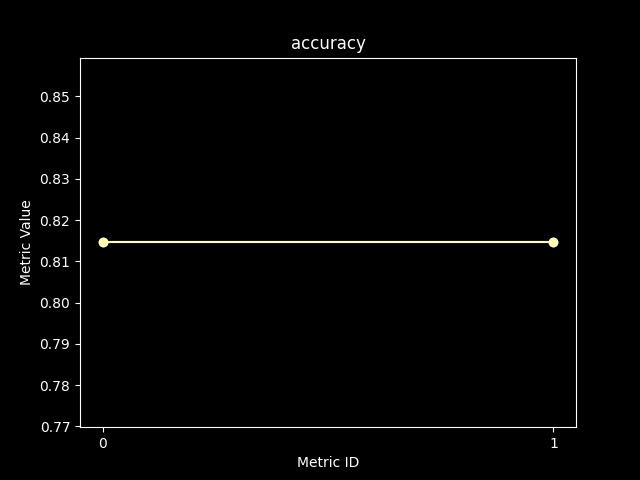
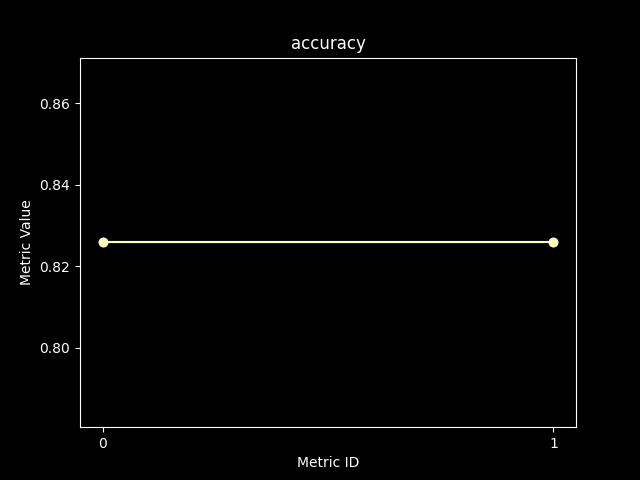
add some checks

diff --git a/mainera/src/wrappers/model_report_wrapper.py b/mainera/src/wrappers/model_report_wrapper.py
@@ -8,31 +8,41 @@ from mainera.src.wrappers.report_wrapper import ReportWrapper
 class ModelReport(ReportWrapper):
     def __init__(self, folderpath, results, history=None):
         super().__init__(folderpath, results)
+        if history and not isinstance(history, dict):
+            raise TypeError(
+                f"Expected 'history' to be a dict has the evaluation metrics of the model to plot them, got {type(history).__name__}"
+            )
         self.history = history
         self.metric_ids = list(map(str, range(len(results))))
 
     def display_history(self):
-        content = "## Model History\n"
-        training_evaluation = []
-        for key in self.history.keys():
-            if not key.startswith("val_"):
-                training_evaluation.append(key)
-        plt.figure(figsize=(15, 10))
-        for i in range(len(training_evaluation)):
-            plt.subplot(len(training_evaluation), 1, i + 1)
-            plt.plot(self.history[training_evaluation[i]], label=training_evaluation[i])
-            plt.suptitle(f"{training_evaluation[i]}")
-            val_name = f"val_{training_evaluation[i]}"
-            validation = self.history[val_name]
-            if validation:
-                plt.plot(validation, label=val_name)
-            plt.xlabel("epochs")
-            plt.legend()
-        plt.tight_layout()
-        path = os.path.join(self.folderpath, "history")
-        plt.savefig(path)
-        content += "![history ](history.png)\n"
-        return content
+        try:
+            content = "## Model History\n"
+            training_evaluation = []
+            for key in self.history.keys():
+                if not key.startswith("val_"):
+                    training_evaluation.append(key)
+            plt.figure(figsize=(8, 8))
+            for i in range(len(training_evaluation)):
+                plt.subplot(len(training_evaluation), 1, i + 1)
+                plt.plot(
+                    self.history[training_evaluation[i]], label=training_evaluation[i]
+                )
+                plt.suptitle(f"{training_evaluation[i]}")
+                val_name = f"val_{training_evaluation[i]}"
+                validation = self.history[val_name]
+                if validation:
+                    plt.plot(validation, label=val_name)
+                plt.xlabel("epochs")
+                plt.legend()
+            plt.tight_layout()
+            path = os.path.join(self.folderpath, "history")
+            plt.savefig(path)
+            content += "![history ](history.png)\n"
+            return content
+        except Exception as e:
+            print(f"Error while generating model history: {e}")
+            return "## Model History\nError: Could not generate plot.\n"
 
     def execute(self):
         metric_content = self.metric_display()

diff --git a/model_report/README.md b/model_report/README.md
@@ -31,8 +31,8 @@ Table
     </tr>
     <tr>
       <th>Metric Value</th>
-      <td>0.814607</td>
-      <td>0.814607</td>
+      <td>0.825843</td>
+      <td>0.825843</td>
     </tr>
   </tbody>
 </table>
